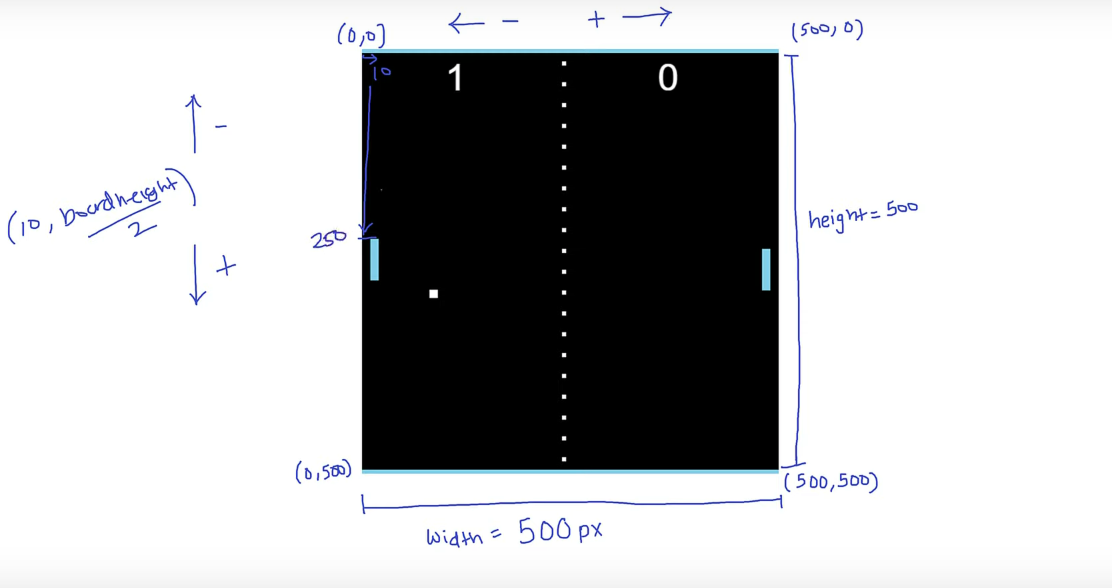
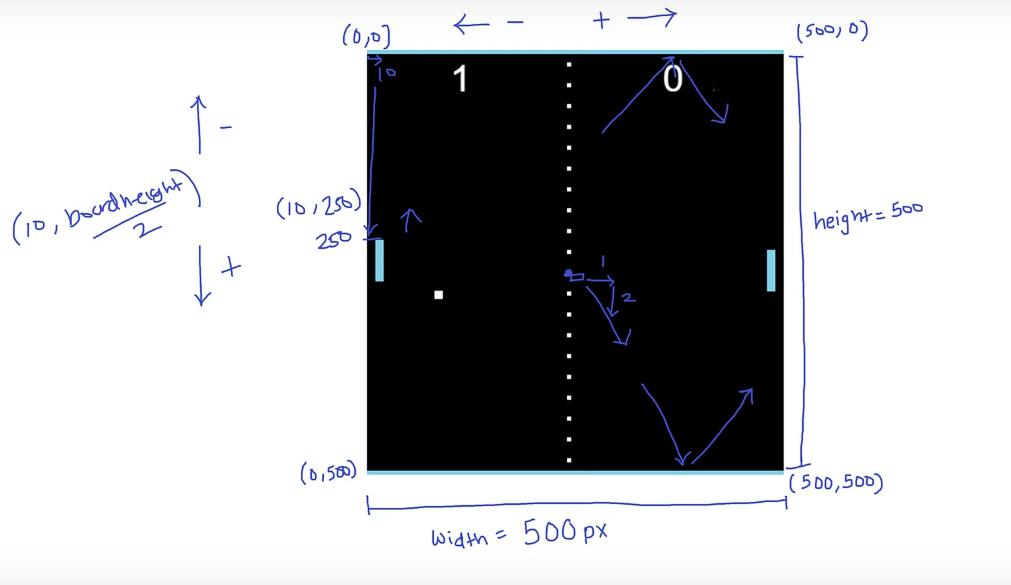
update

diff --git a/README.md b/README.md
@@ -6,17 +6,28 @@ Pong game task 2/2
 
 This document will explain the code and provide some insight into my learning during the game development. 
 
-- HTML: The html (canvas) element is a container which allows for the drawing of graphics and animations, using JavaScript.
+- HTML: The (canvas) element is a container which allows for the drawing of graphics and animations, using JavaScript.
 (h1) for title.
 
 - CSS: (canvas id="board") background-color, & border-top, bottom, styles. 
 
 
 # Project, my understanding of the code.
-image:1 show's the dimentions of canvas starting at (0.0) point or X, Y. width & height of 500px. Also the positioning of the player paddle, which is boarderheight/2, size of the paddle is stored in a variable (playerHeight = 100;)
+Image-1: show's the dimentions of canvas starting at (0.0) point or X, Y. width & height of 500px. Also the positioning of the player paddle, which is boarderheight/2, size of the paddle is stored in a variable (playerHeight = 100;)
 
-<img src="/img's%20readme/1.png" alt="" width="900" height="400">
+<img src="/img's%20readme/1.png" alt="" width="850" height="350">
 
+Image-2: Ball starting point center, when ever the ball touches the boardHeight it revers.    
+
+// if ball touches top or bottom of canvas
+    if (ball.y <= 0 || (ball.y + ball.height >= boardHeight)) {
+        ball.velocityY *= -1; //reverse direction 
+    }
+
+<img src="/img's%20readme/2.png" alt="" width="850" height="350">
+
+
+<img src="/img's%20readme/3.png" alt="" width="850" height="350">
 
 # Project Inspiration
 
